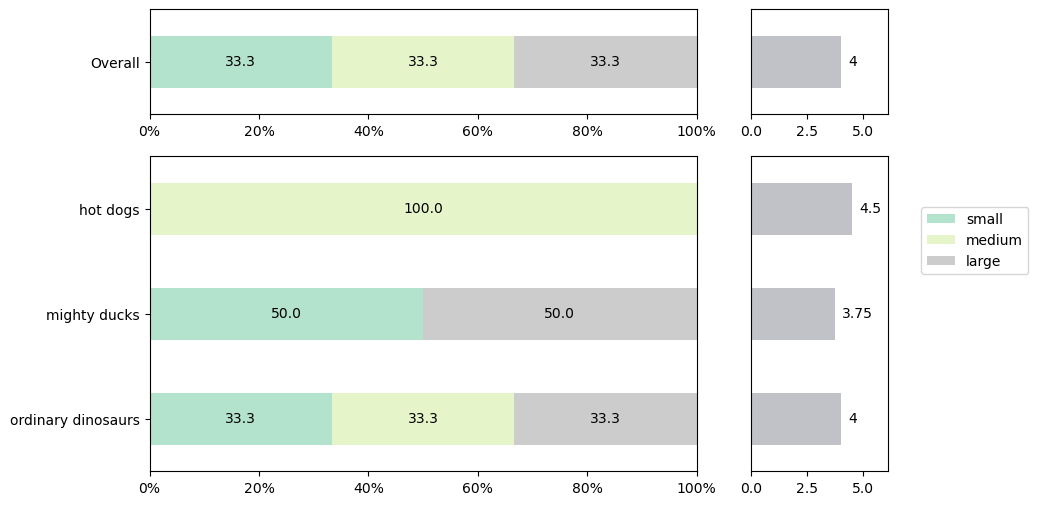
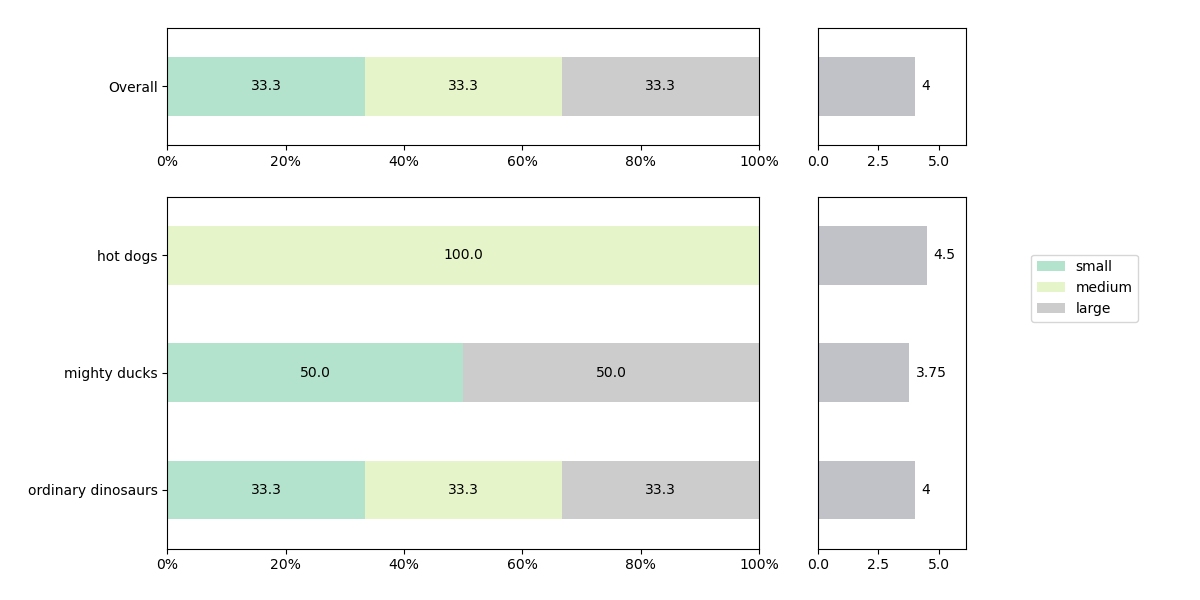
updated padding, added image

diff --git a/barkeep/core.py b/barkeep/core.py
@@ -52,6 +52,7 @@ class GridPlot:
 
         legend.plot(handles=handles, labels=labels, ax=self.legend_ax)
 
+        plt.tight_layout(pad=2)
         plt.show()
 
 

diff --git a/README.md b/README.md
@@ -1,4 +1,6 @@
-# bartender
+# barkeep
 Annotated barplots in a nice grid.
 
 > _Currently work in progress_
+
+![](images/output.png)
